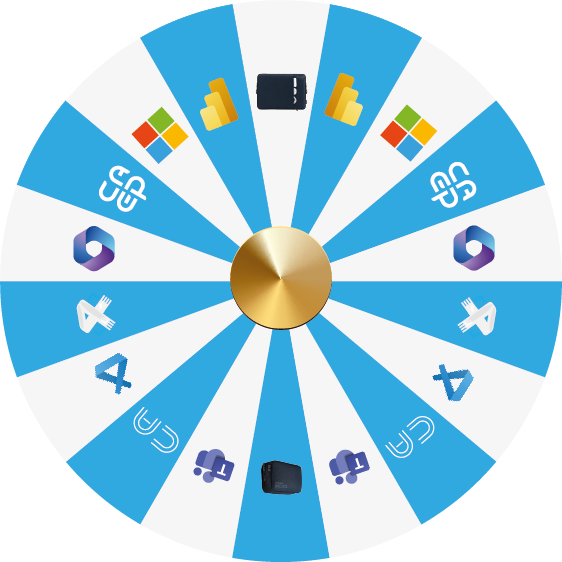
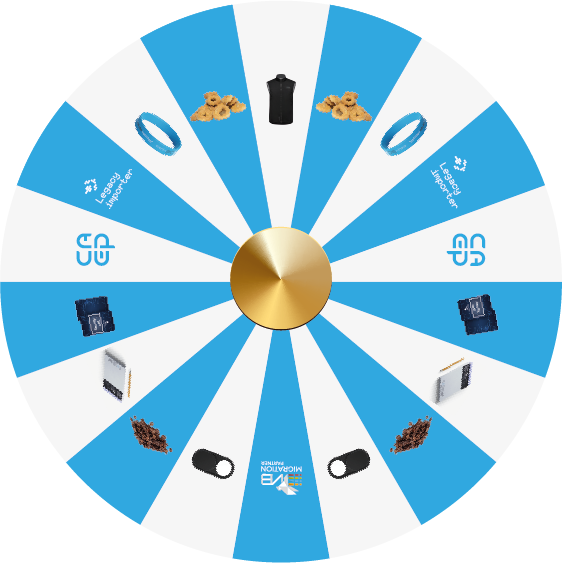
new image and angle win

diff --git a/src/wheel.ts b/src/wheel.ts
@@ -33,7 +33,7 @@ export class Wheel extends Group {
 
     this.add(this.base, this.internal.translateZ(0.01), this.external.translateZ(0.02));
 
-    document.getElementById('gira').addEventListener('click', () => { 
+    document.getElementById('gira').addEventListener('click', () => {
       this.gira();
     });
 
@@ -65,9 +65,10 @@ export class Wheel extends Group {
   }
 
   public checkWin(): boolean {
-    const winningAngle = (9.75 * Math.PI) / -180;
-    const module = this.internal.material.rotation % Math.PI;
-    const angle = module > -Math.PI / 2 ? module : -Math.PI - module;
-    return angle >= winningAngle;
+    const spicchioSize = (Math.PI * 2) / 18;
+    const winIndex = [0, 1, 2, 5, 6, 7, 11, 12, 13, 16, 17];
+    const module = (this.internal.material.rotation + spicchioSize / 2) % (Math.PI * 2);
+    const index = Math.trunc(((Math.PI * 2) + module) / spicchioSize);
+    return winIndex.indexOf(index) >= 0;
   }
 }
